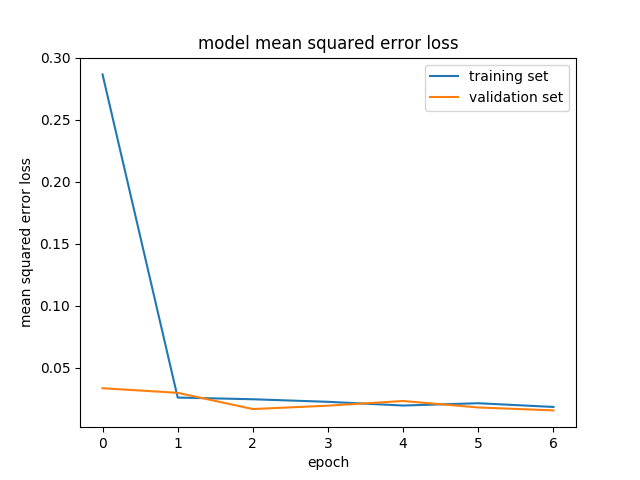
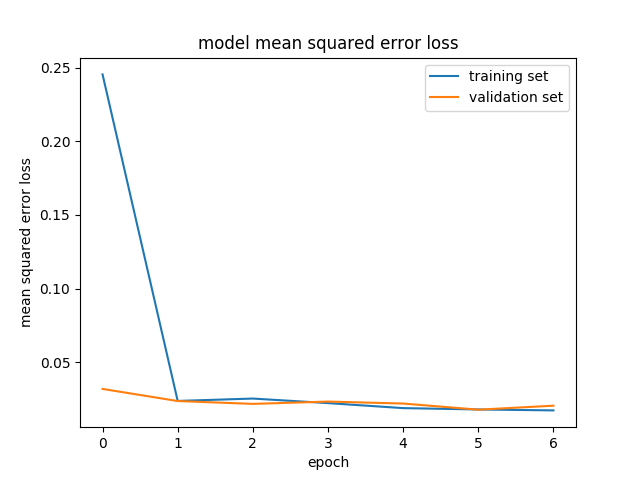
updated

diff --git a/clone.py b/clone.py
@@ -1,0 +1,141 @@
+import csv
+import cv2
+import numpy as np
+import matplotlib.pyplot as plt
+
+from keras.models import Sequential
+from keras.layers.core import Flatten, Dense, Dropout, Lambda
+from keras.layers.convolutional import Convolution2D, MaxPooling2D, ZeroPadding2D
+from keras.optimizers import SGD
+from keras.applications.vgg16 import VGG16
+import cv2, numpy as np
+
+#def resize_image(image_files):
+	#for idx in range(0, len(image_files)):
+		#im = cv2.resize(im, (224, 244))
+	 #roi = img[60:140, :, :]
+	# Resize the image
+	#resize = cv2.resize(img, (224, 224), interpolation=cv2.INTER_AREA)
+	## Return the image sized as a 4D array
+	#return np.resize(resize, (1, 224, 224, 3))
+
+
+
+#use the vgg model from keras:
+# https://gist.github.com/baraldilorenzo/07d7802847aaad0a35d3
+def VGG_16(weights_path=None):
+    model = Sequential()
+    model.add(ZeroPadding2D((1,1),input_shape=(3,224,224)))
+    model.add(Convolution2D(64, 3, 3, activation='relu'))
+    model.add(ZeroPadding2D((1,1)))
+    model.add(Convolution2D(64, 3, 3, activation='relu'))
+    model.add(MaxPooling2D((2,2), strides=(2,2)))
+
+    model.add(ZeroPadding2D((1,1)))
+    model.add(Convolution2D(128, 3, 3, activation='relu'))
+    model.add(ZeroPadding2D((1,1)))
+    model.add(Convolution2D(128, 3, 3, activation='relu'))
+    model.add(MaxPooling2D((2,2), strides=(2,2)))
+
+    model.add(ZeroPadding2D((1,1)))
+    model.add(Convolution2D(256, 3, 3, activation='relu'))
+    model.add(ZeroPadding2D((1,1)))
+    model.add(Convolution2D(256, 3, 3, activation='relu'))
+    model.add(ZeroPadding2D((1,1)))
+    model.add(Convolution2D(256, 3, 3, activation='relu'))
+    model.add(MaxPooling2D((2,2), strides=(2,2)))
+
+    model.add(ZeroPadding2D((1,1)))
+    model.add(Convolution2D(512, 3, 3, activation='relu'))
+    model.add(ZeroPadding2D((1,1)))
+    model.add(Convolution2D(512, 3, 3, activation='relu'))
+    model.add(ZeroPadding2D((1,1)))
+    model.add(Convolution2D(512, 3, 3, activation='relu'))
+    model.add(MaxPooling2D((2,2), strides=(2,2)))
+
+    model.add(ZeroPadding2D((1,1)))
+    model.add(Convolution2D(512, 3, 3, activation='relu'))
+    model.add(ZeroPadding2D((1,1)))
+    model.add(Convolution2D(512, 3, 3, activation='relu'))
+    model.add(ZeroPadding2D((1,1)))
+    model.add(Convolution2D(512, 3, 3, activation='relu'))
+    model.add(MaxPooling2D((2,2), strides=(2,2)))
+
+    model.add(Flatten())
+    model.add(Dense(4096, activation='relu'))
+    model.add(Dropout(0.5))
+    model.add(Dense(4096, activation='relu'))
+    model.add(Dropout(0.5))
+    model.add(Dense(1000, activation='softmax'))
+
+    if weights_path:
+        model.load_weights(weights_path)
+
+    return model
+
+
+lines = []
+with open('./sim_data/driving_log.csv') as csvfile:
+	reader = csv.reader(csvfile)
+	for line in reader:
+		lines.append(line)
+
+images = []
+measurements = []
+for line in lines:
+	source_path = line[0]
+	filename = source_path.split('/')[-1]
+	current_path = './sim_data/IMG/' + filename
+	image = cv2.resize(cv2.imread(current_path), (224, 224)).astype(np.float32)
+    	#im[:,:,0] -= 103.939
+    	#im[:,:,1] -= 116.779
+    	#im[:,:,2] -= 123.68
+    	#im = im.transpose((2,0,1))
+	#image = np.expand_dims(image, axis=0)
+	images.append(image)
+	measurement = float(line[3])
+	measurements.append(measurement)
+
+X_train = np.array(images)
+Y_train = np.array(measurements)
+
+model = VGG_16()
+
+#X_train = resize_image(X_train_raw)
+
+#plt.figure(figsize=(1,1))
+#plt.imshow(X_train[0])
+#import scipy.misc
+#scipy.misc.imsave('outfile.png', X_train[0])
+
+#model = Sequential()
+#model.add(Lambda(lambda x: (x / 255.0) - 0.5, input_shape=(160,320,3)))
+#model.add(Flatten())
+#model.add(Dense(1))
+
+#model = Sequential()
+#model.add(Convolution2D(32, 3, 3, input_shape=(160, 320, 3)))
+#model.add(Lambda(lambda x: (x / 255.0) - 0.5, input_shape=(32,3,3)))
+#model.add(MaxPooling2D((2, 2)))
+#model.add(Dropout((0.75)))
+#model.add(Activation('relu'))
+#model.add(Flatten())
+#model.add(Dense(128))
+#model.add(Activation('relu'))
+#model.add(Dense(5))
+#model.add(Activation('softmax'))
+
+#X_normalized = np.array(X_train / 255.0 - 0.5 )
+#from sklearn.preprocessing import LabelBinarizer
+#label_binarizer = LabelBinarizer()
+#y_one_hot = label_binarizer.fit_transform(Y_train)
+#model.compile(loss='mse', optimizer='adam')
+#model.fit(X_train, y_one_hot, validation_split=0.2, shuffle=True, nb_epoch=10)
+
+model.compile(loss='mse', optimizer='adam')
+model.fit(X_train, Y_train, validation_split=0.2, shuffle=True, nb_epoch=10)
+
+print("saving model")
+model.save('model.h5')
+print("saved")
+

diff --git a/drive.py b/drive.py
@@ -44,7 +44,7 @@ class SimplePIController:
 
 
 controller = SimplePIController(0.1, 0.002)
-set_speed = 9
+set_speed = 9 
 controller.set_desired(set_speed)
 
 
@@ -120,6 +120,7 @@ if __name__ == '__main__':
               ', but the model was built using ', model_version)
 
     model = load_model(args.model)
+    line_entry = 0
 
     if args.image_folder != '':
         print("Creating image folder at {}".format(args.image_folder))
